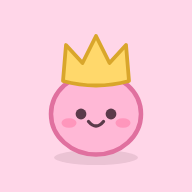
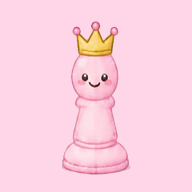
Replace SVG pieces with classic-silhouette squishy artwork
Cut 12 pieces from the supplied sprite sheet (background removed, 256px
WebP with alpha), size-normalised so pawns stay readable. Regenerate the app
icons from the Blush queen and add a padded maskable icon. Precache webp.

Claude-Session: https://claude.ai/code/session_011WRTMw6V4tTJSJCeSvkAEr

Changed region(s): [[0.25, 0.0938, 0.75, 0.9375]]

diff --git a/src/components/Piece.tsx b/src/components/Piece.tsx
@@ -1,96 +1,11 @@
 import type { Color, PieceSymbol } from 'chess.js'
 
-type Palette = { fill: string; edge: string; cheek: string; shine: string }
+const IMAGES = import.meta.glob<string>('../assets/pieces/*.webp', {
+  eager: true,
+  import: 'default',
+})
 
-const PALETTES: Record<Color, Palette> = {
-  w: { fill: '#ffb8d6', edge: '#e0709f', cheek: '#ff7aa8', shine: '#fff0f6' },
-  b: { fill: '#b7c4ff', edge: '#6f7fd6', cheek: '#ff9ec7', shine: '#eef1ff' },
-}
-
-const GOLD = '#ffd86b'
-const GOLD_EDGE = '#d9a62b'
-const INK = '#5b3a4a'
-
-function Face({ y }: { y: number }) {
-  return (
-    <g>
-      <circle cx="40" cy={y} r="3.6" fill={INK} />
-      <circle cx="60" cy={y} r="3.6" fill={INK} />
-      <circle cx="41.2" cy={y - 1.2} r="1.1" fill="#fff" />
-      <circle cx="61.2" cy={y - 1.2} r="1.1" fill="#fff" />
-      <ellipse cx="32" cy={y + 6} rx="5" ry="3.2" fill="var(--cheek)" opacity="0.55" />
-      <ellipse cx="68" cy={y + 6} rx="5" ry="3.2" fill="var(--cheek)" opacity="0.55" />
-      <path
-        d={`M45 ${y + 5} Q50 ${y + 11} 55 ${y + 5}`}
-        fill="none"
-        stroke={INK}
-        strokeWidth="2.2"
-        strokeLinecap="round"
-      />
-    </g>
-  )
-}
-
-function Body({ type }: { type: PieceSymbol }) {
-  switch (type) {
-    case 'p':
-      return (
-        <>
-          <path d="M50 30 Q42 22 48 17 Q56 20 52 30" fill="var(--fill)" stroke="var(--edge)" strokeWidth="3" strokeLinejoin="round" />
-          <ellipse cx="50" cy="62" rx="26" ry="24" fill="var(--fill)" stroke="var(--edge)" strokeWidth="3" />
-        </>
-      )
-    case 'r':
-      return (
-        <>
-          <rect x="24" y="34" width="52" height="54" rx="20" fill="var(--fill)" stroke="var(--edge)" strokeWidth="3" />
-          {[26, 43, 60].map((x) => (
-            <rect key={x} x={x} y="22" width="14" height="18" rx="6" fill="var(--fill)" stroke="var(--edge)" strokeWidth="3" />
-          ))}
-        </>
-      )
-    case 'n':
-      return (
-        <>
-          <path d="M30 40 L28 22 L42 32 Z" fill="var(--fill)" stroke="var(--edge)" strokeWidth="3" strokeLinejoin="round" />
-          <path d="M70 40 L72 22 L58 32 Z" fill="var(--fill)" stroke="var(--edge)" strokeWidth="3" strokeLinejoin="round" />
-          <ellipse cx="50" cy="62" rx="28" ry="26" fill="var(--fill)" stroke="var(--edge)" strokeWidth="3" />
-          <path d="M50 8 L43 34 L57 34 Z" fill={GOLD} stroke={GOLD_EDGE} strokeWidth="2.5" strokeLinejoin="round" />
-          <circle cx="76" cy="52" r="6" fill="var(--edge)" opacity="0.55" />
-          <circle cx="79" cy="66" r="5" fill="var(--edge)" opacity="0.55" />
-        </>
-      )
-    case 'b':
-      return (
-        <>
-          <ellipse cx="50" cy="60" rx="24" ry="30" fill="var(--fill)" stroke="var(--edge)" strokeWidth="3" />
-          <path d="M32 40 Q50 -2 68 40 Q50 46 32 40 Z" fill={GOLD} stroke={GOLD_EDGE} strokeWidth="2.5" strokeLinejoin="round" />
-          <path d="M50 10 l2.4 5 5.4 .6 -4 3.7 1.1 5.3 -4.9 -2.7 -4.9 2.7 1.1 -5.3 -4 -3.7 5.4 -.6z" fill="#fff" opacity="0.9" />
-        </>
-      )
-    case 'q':
-      return (
-        <>
-          <ellipse cx="50" cy="62" rx="30" ry="27" fill="var(--fill)" stroke="var(--edge)" strokeWidth="3" />
-          <path d="M28 40 L30 16 L41 28 L50 10 L59 28 L70 16 L72 40 Q50 46 28 40 Z" fill={GOLD} stroke={GOLD_EDGE} strokeWidth="2.5" strokeLinejoin="round" />
-          <circle cx="30" cy="15" r="3.5" fill="#ff7aa8" />
-          <circle cx="50" cy="9" r="3.5" fill="#ff7aa8" />
-          <circle cx="70" cy="15" r="3.5" fill="#ff7aa8" />
-        </>
-      )
-    case 'k':
-      return (
-        <>
-          <ellipse cx="50" cy="63" rx="33" ry="28" fill="var(--fill)" stroke="var(--edge)" strokeWidth="3" />
-          <path d="M30 42 L32 24 L42 32 L50 22 L58 32 L68 24 L70 42 Q50 48 30 42 Z" fill={GOLD} stroke={GOLD_EDGE} strokeWidth="2.5" strokeLinejoin="round" />
-          <rect x="47" y="6" width="6" height="17" rx="2.5" fill={GOLD} stroke={GOLD_EDGE} strokeWidth="2" />
-          <rect x="42" y="11" width="16" height="6" rx="2.5" fill={GOLD} stroke={GOLD_EDGE} strokeWidth="2" />
-        </>
-      )
-  }
-}
-
-const FACE_Y: Record<PieceSymbol, number> = { p: 62, r: 62, n: 62, b: 64, q: 62, k: 64 }
+const src = (color: Color, type: PieceSymbol) => IMAGES[`../assets/pieces/${color}${type}.webp`]
 
 export default function Piece({
   type,
@@ -101,18 +16,12 @@ export default function Piece({
   color: Color
   className?: string
 }) {
-  const p = PALETTES[color]
   return (
-    <svg
-      viewBox="0 0 100 100"
-      className={className}
-      style={{ '--fill': p.fill, '--edge': p.edge, '--cheek': p.cheek } as React.CSSProperties}
-      aria-hidden="true"
-    >
-      <ellipse cx="50" cy="91" rx="28" ry="5" fill={INK} opacity="0.12" />
-      <Body type={type} />
-      <ellipse cx="36" cy="48" rx="9" ry="5" fill={p.shine} opacity="0.7" transform="rotate(-25 36 48)" />
-      <Face y={FACE_Y[type]} />
-    </svg>
+    <img
+      src={src(color, type)}
+      alt=""
+      draggable={false}
+      className={`object-contain object-bottom drop-shadow-[0_3px_2px_rgba(91,58,74,0.25)] ${className}`}
+    />
   )
 }

diff --git a/vite.config.ts b/vite.config.ts
@@ -10,7 +10,7 @@ export default defineConfig({
     tailwindcss(),
     VitePWA({
       registerType: 'autoUpdate',
-      includeAssets: ['icon.svg'],
+      includeAssets: ['icon-192.png'],
       manifest: {
         name: 'Squishy Chess',
         short_name: 'Squishy',
@@ -27,10 +27,10 @@ export default defineConfig({
         icons: [
           { src: 'icon-192.png', sizes: '192x192', type: 'image/png' },
           { src: 'icon-512.png', sizes: '512x512', type: 'image/png' },
-          { src: 'icon-512.png', sizes: '512x512', type: 'image/png', purpose: 'maskable' },
+          { src: 'icon-maskable-512.png', sizes: '512x512', type: 'image/png', purpose: 'maskable' },
         ],
       },
-      workbox: { globPatterns: ['**/*.{js,css,html,svg,png,woff2}'] },
+      workbox: { globPatterns: ['**/*.{js,css,html,svg,png,webp,woff2}'] },
     }),
   ],
 })

diff --git a/src/components/Board.tsx b/src/components/Board.tsx
@@ -133,7 +133,7 @@ export default function Board({
                   <Piece
                     type={cell.type}
                     color={cell.color}
-                    className={`relative z-10 h-[88%] w-[88%] ${selected === sq ? 'piece-selected' : ''} ${justLanded ? 'piece-landed' : ''}`}
+                    className={`relative z-10 h-[94%] w-[94%] ${selected === sq ? 'piece-selected' : ''} ${justLanded ? 'piece-landed' : ''}`}
                   />
                 )}
                 {isTarget && (

diff --git a/src/App.tsx b/src/App.tsx
@@ -65,7 +65,7 @@ export default function App() {
             <div className="text-sm font-semibold opacity-70">{NAMES[side]} has squished</div>
             <div className="flex flex-wrap">
               {game.captured[side].map((t, i) => (
-                <Piece key={i} type={t} color={side === 'w' ? 'b' : 'w'} className="h-9 w-9" />
+                <Piece key={i} type={t} color={side === 'w' ? 'b' : 'w'} className="h-10 w-10" />
               ))}
             </div>
           </div>

diff --git a/index.html b/index.html
@@ -5,7 +5,7 @@
     <meta name="viewport" content="width=device-width, initial-scale=1, viewport-fit=cover" />
     <meta name="theme-color" content="#ffd6e8" />
     <meta name="apple-mobile-web-app-capable" content="yes" />
-    <link rel="icon" type="image/svg+xml" href="icon.svg" />
+    <link rel="icon" type="image/png" href="icon-192.png" />
     <link rel="apple-touch-icon" href="icon-192.png" />
     <title>Squishy Chess</title>
   </head>

diff --git a/README.md b/README.md
@@ -32,10 +32,11 @@ Built with a relative `base`, so it works from a GitHub Pages project subpath wi
 src/
   App.tsx                 layout, side panel, controls
   components/Board.tsx    tap-to-move board, highlights, promotion picker
-  components/Piece.tsx    inline SVG characters (one per piece type, two colourways)
+  components/Piece.tsx    renders a piece image from src/assets/pieces
   ai.ts                   the computer opponent and difficulty levels
   hooks/useGame.ts        game state derived from a move list (undo = pop)
-public/                   icons (SVG source, 192 and 512 PNGs)
+assets/pieces/          12 transparent WebP pieces, named <colour><type> (e.g. wq = Blush queen)
+public/                   app icons (192, 512 and a padded maskable 512)
 ```
 
 ## Design notes
@@ -48,7 +49,7 @@ public/                   icons (SVG source, 192 and 512 PNGs)
   - **Tricky**: looks two moves ahead (spots simple traps and mates in one), with a few random slips.
 - The in-game difficulty toggle is deferred. The game is fixed to Easy via `LEVEL` in `src/App.tsx`.
 - Tune difficulty via `CONFIG` in `src/ai.ts` (`noise` and `blunder` are the dials). Stockfish was ruled out as far too strong and a large precache asset.
-- Characters are original SVG art, so recolouring or swapping a piece is a change to one component.
+- Pieces are raster art (WebP, 256x256, bottom-aligned). To swap a piece, replace its file in `src/assets/pieces` keeping the name and size. Piece heights are deliberately compressed (pawn ~74% of king) so faces stay readable on small squares.
 - Game state is just the list of moves played. The position is rebuilt with chess.js on each change, which is cheap and makes undo trivial.
 
 ## Roadmap
